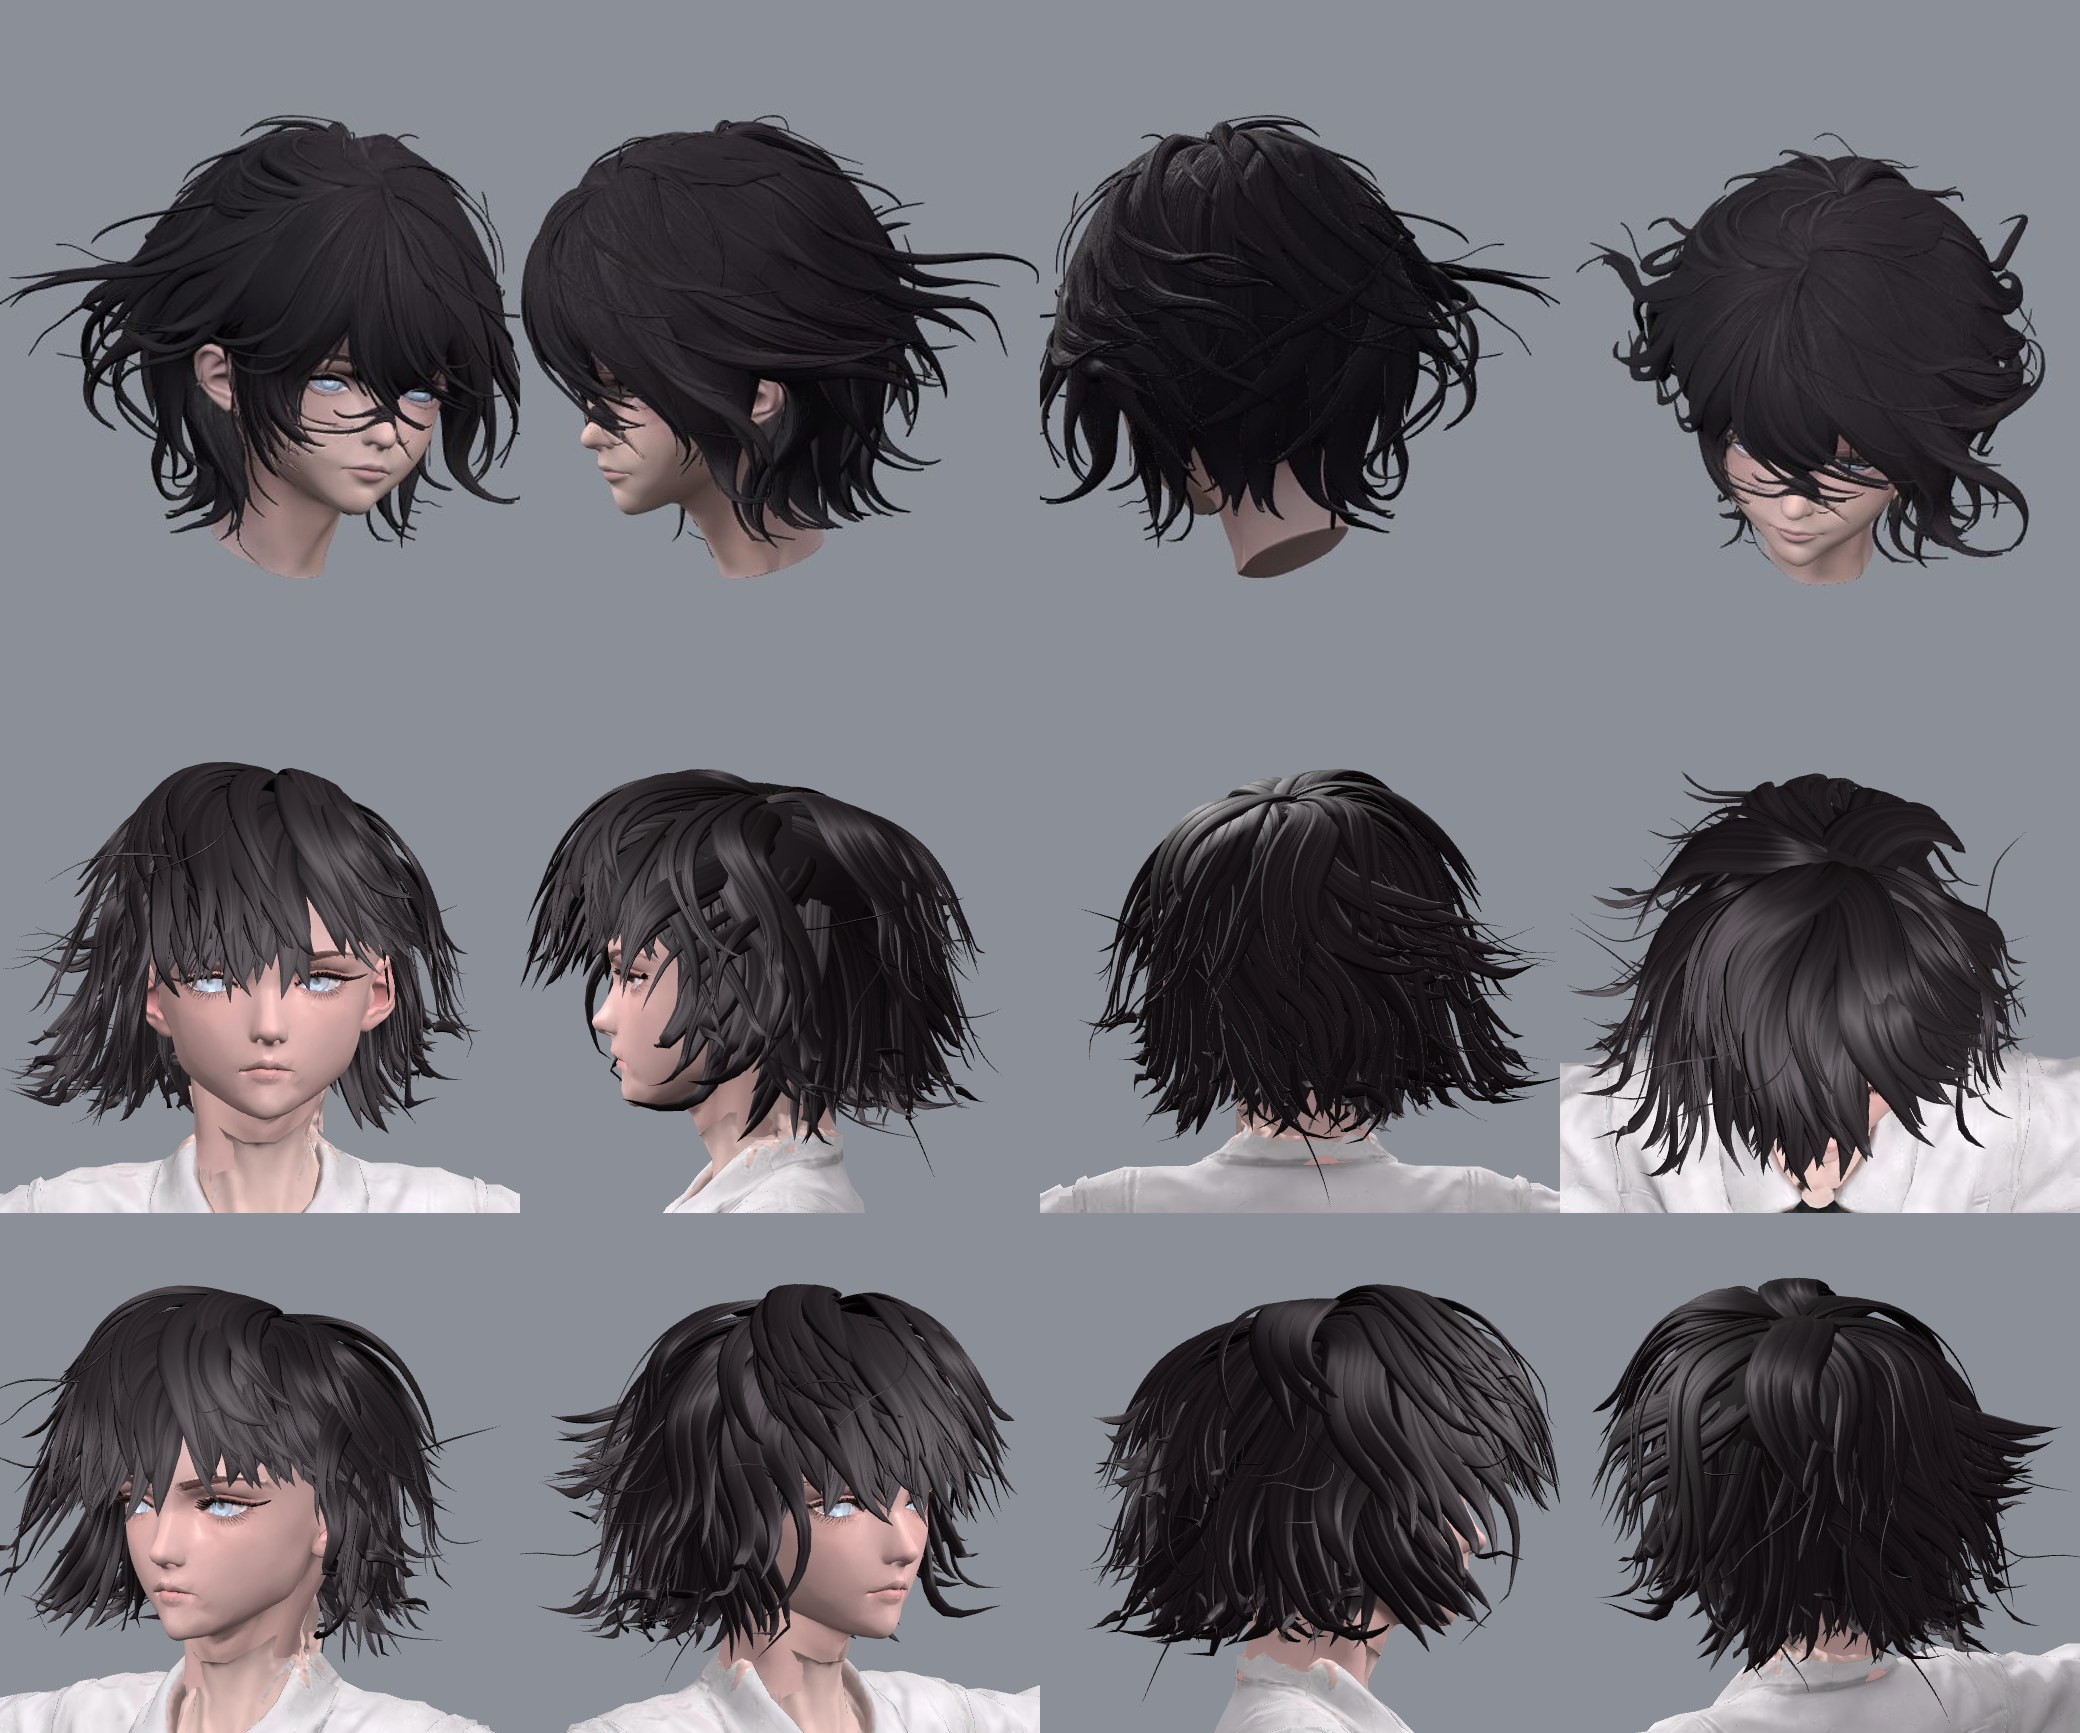
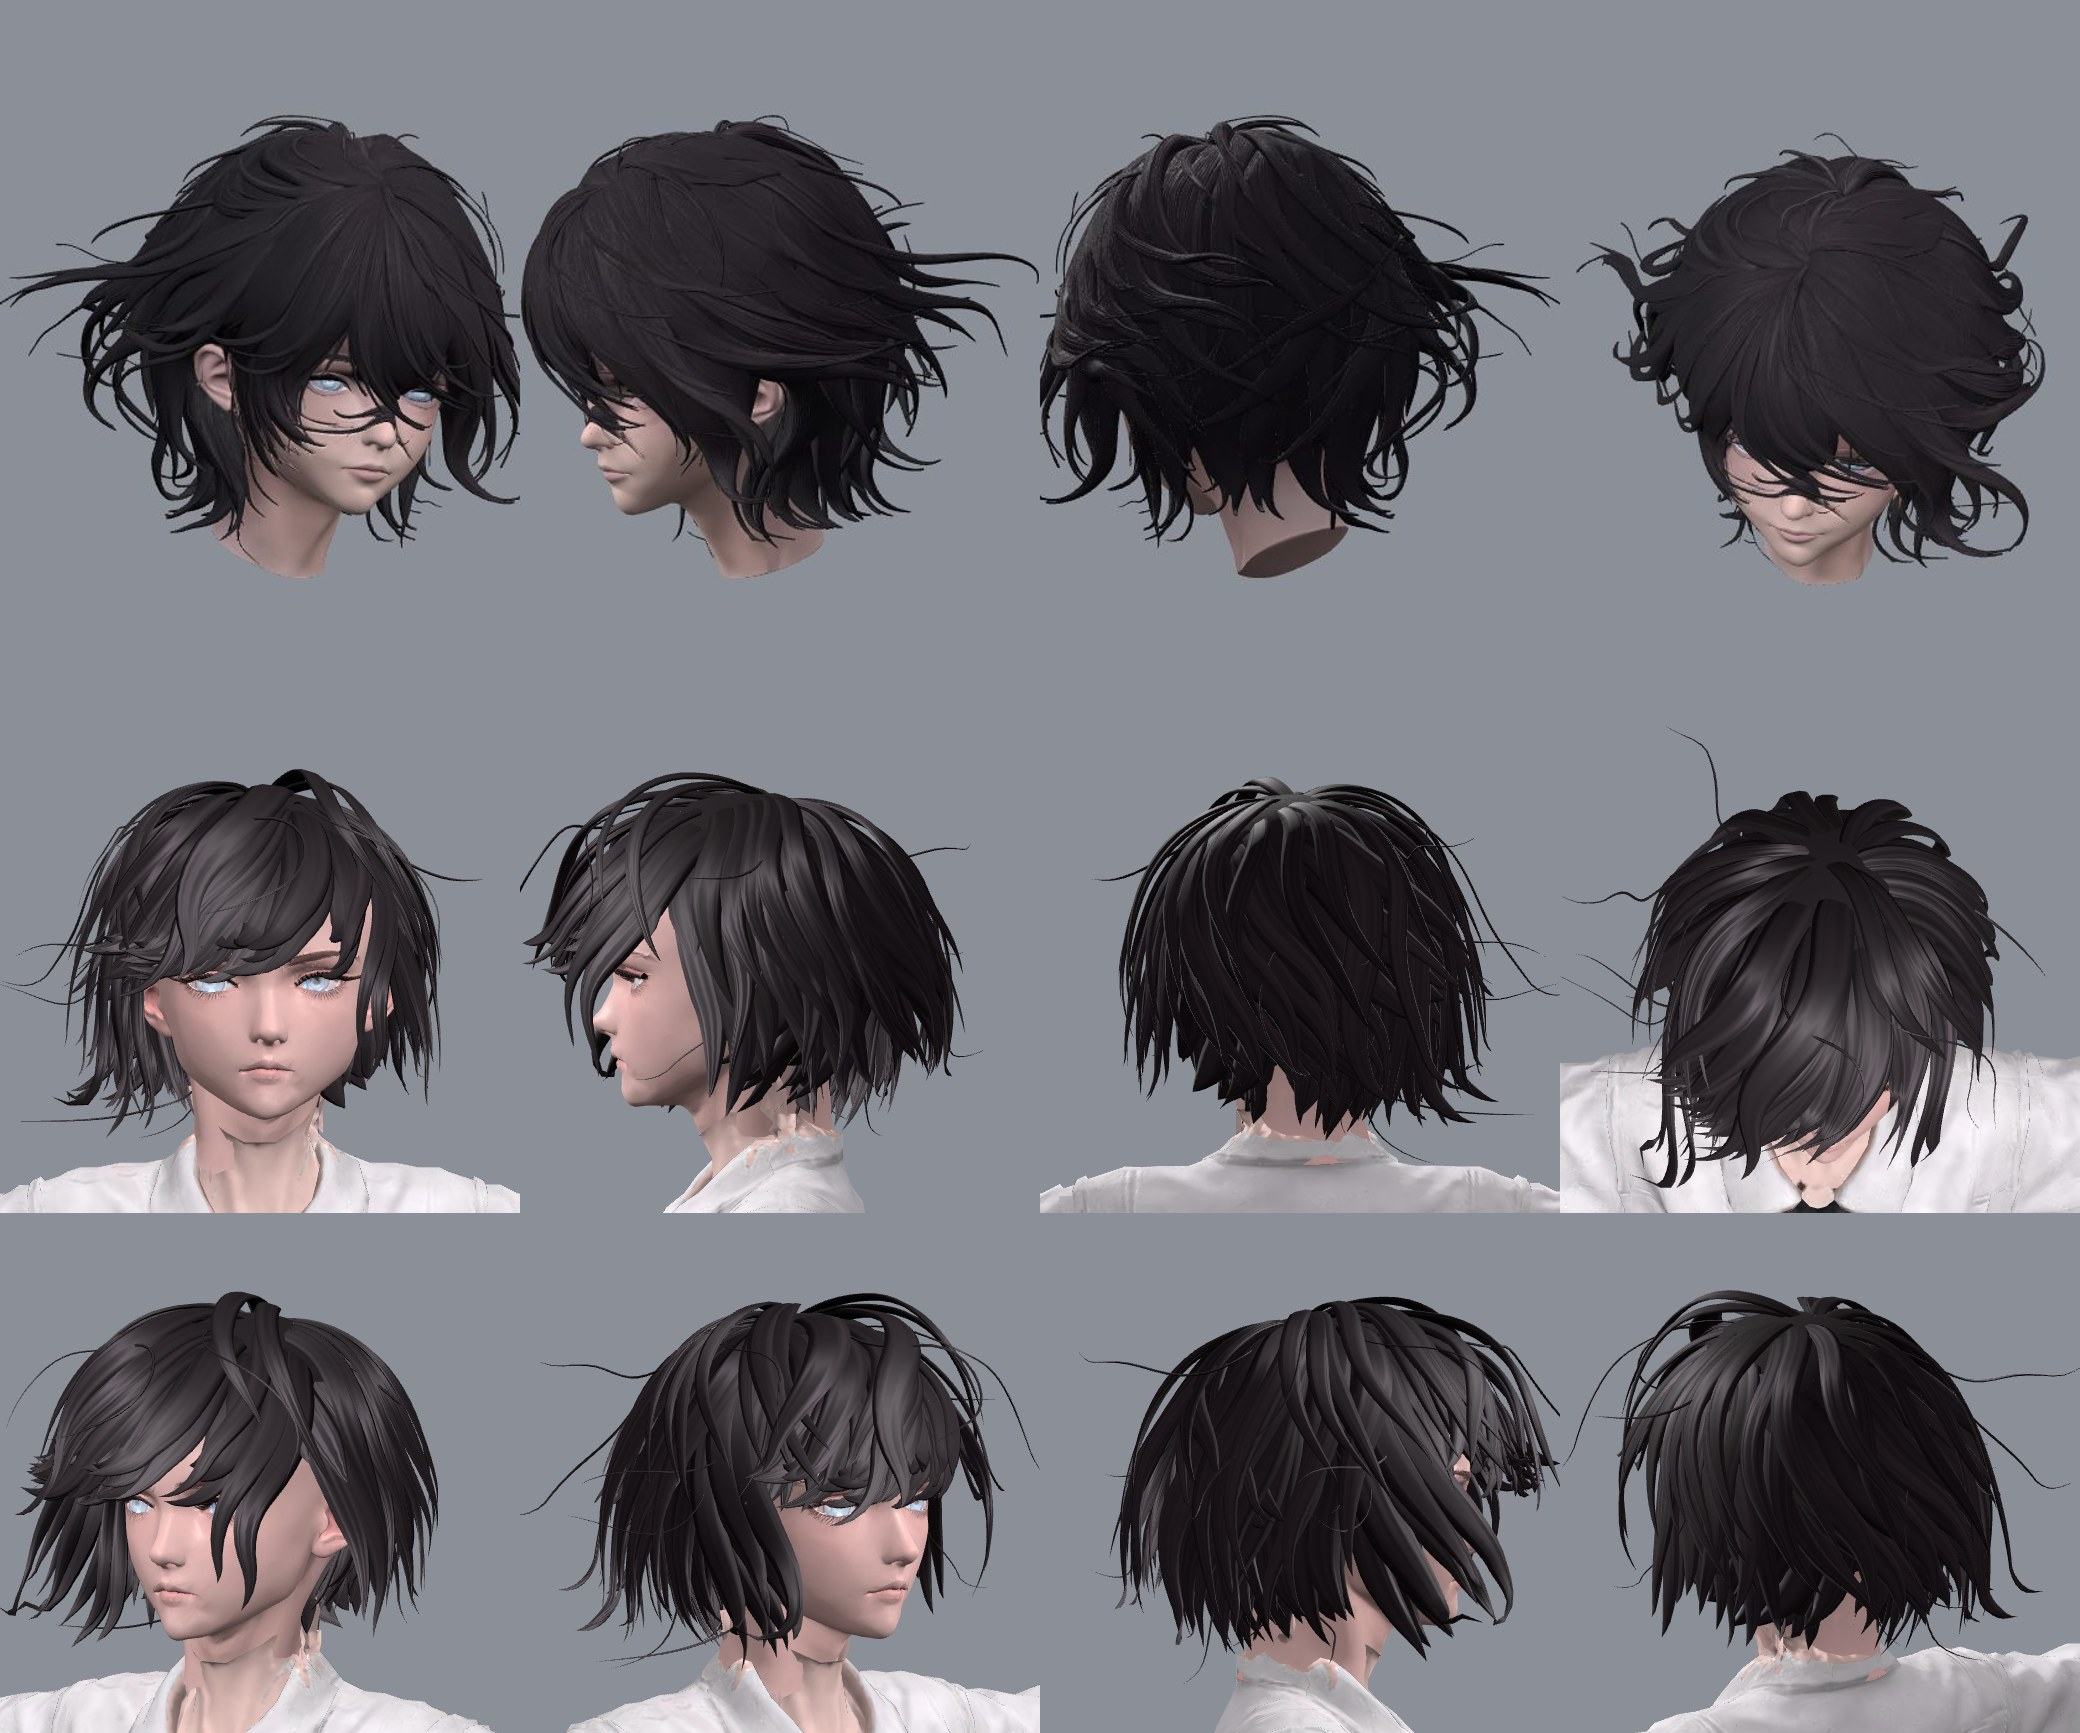
Hair: rounder silhouette tucked in below the ears, fewer and wider locks, varied lengths
Claude-Session: https://claude.ai/code/session_019DMgo5PsWcgmUS1Nw3L7Hp

diff --git a/character/hair.js b/character/hair.js
@@ -31,14 +31,14 @@ function noise3(x, y, z) {
 
 export const HAIR_DEFAULTS = {
   seed: 7,
-  whorl: 22,            // extra locks around the crown so the whorl closes
-  fringe: 14,           // extra locks over the forehead, where the face would otherwise show a bare hairline
-  sectionSize: 0.62,    // spacing of section centres: smaller = more, smaller sections
-  clumps: 150,          // locks
-  clumpSpacing: 0.235,   // minimum distance between lock roots (eye-gap units)
+  whorl: 16,            // extra locks around the crown so the whorl closes
+  fringe: 18,           // extra locks over the forehead, where the face would otherwise show a bare hairline
+  sectionSize: 0.95,    // spacing of section centres: smaller = more, smaller sections
+  clumps: 125,          // locks
+  clumpSpacing: 0.26,   // minimum distance between lock roots (eye-gap units)
   strays: 0,            // thin stray hairs travelling with each lock
-  flyaways: 16,         // long thin hairs carried off by the wind
-  surface: 12,          // thin hairs lying across the top of the locks
+  flyaways: 10,         // long thin hairs carried off by the wind
+  surface: 8,          // thin hairs lying across the top of the locks
   skull: { c: [0, 0.55, -1.17], r: [1.3, 1.62, 1.5] },   // measured on assets/bald.glb
   crown: [0.12, 2.1, -1.45],
   wind: [-0.85, 0.1, -0.5],     // blows toward the character's right and back
@@ -46,7 +46,8 @@ export const HAIR_DEFAULTS = {
   gravity: 0.14,
   part: 0.3,            // x of the fringe parting: locks sweep away from it to either side
   volume: 1.1,          // how far the outer layer stands off the skull (1 = on the skull)
-  bell: 0.16,           // how slowly the silhouette narrows below the skull; smaller = fuller
+  tuck: 0.05,           // how strongly locks below the ears curve back in toward the neck
+  bell: 0.3,           // how slowly the silhouette narrows below the skull; smaller = fuller
   cutLong: 3.1,         // lock length at the crown (eye-gap units)
   cutShort: 0.6,        // lock length at the nape and temples
   wave: 0.145,          // strength of the long S-bends
@@ -96,13 +97,13 @@ export function buildHair(THREE, headMesh, frame, options = {}) {
 
   // ---- sections: the style parameters that all locks growing from one patch of scalp share
   const makeSection = centre => {
-    const wild = centre ? centre.y < 1.75 && R() < 0.05 + 0.4 * lee(centre) : false;                   // whole sections on the lee side get caught by the wind
+    const wild = centre ? centre.y < 1.4 && R() < 0.03 + 0.25 * lee(centre) : false;                   // whole sections on the lee side get caught by the wind
     return {
       centre, len: R(), long: R() < 0.16, swirl: (R() - 0.5) * 1.5 + 0.2, sweep: R(),
-      flick: (R() < 0.8 ? 1 : 0.3) * (0.13 + R() * 0.12), hookSteps: 4 + Math.floor(R() * 4),
+      flick: 0.13 + R() * 0.12, out: R() < 0.3, hookSteps: 4 + Math.floor(R() * 4),
       curly: R() < 0.45 ? (R() < 0.5 ? 1 : -1) * (0.05 + R() * 0.1) : 0,
       wPhase: R() * 6.28, wFreq: 0.2 + R() * 0.1, wAmp: 0.6 + R() * 0.8, ph1: R() * 6.28, ph2: R() * 6.28, fr: 0.55 + R() * 0.9,
-      wild, wind: wild ? 2.2 + R() * 1.8 : 0.25 + R() * 0.7, lift: R() * 0.02 + (wild ? 0.03 : 0), gravity: wild ? 0.75 : 1, shade: 0.8 + R() * 0.45,
+      wild, wind: wild ? 1.5 + R() * 1.2 : 0.25 + R() * 0.7, lift: R() * 0.02 + (wild ? 0.03 : 0), gravity: wild ? 0.75 : 1, shade: 0.8 + R() * 0.45,
     };
   };
   const sections = [];
@@ -121,24 +122,24 @@ export function buildHair(THREE, headMesh, frame, options = {}) {
     const front = Math.max(0, 1 - Math.abs(az) / 1.0), back = Math.max(0, (Math.abs(az) - 1.9) / 1.2);
     // where the strand stops: fringe around the eyes (a few reach the nose); elsewhere tiered by root height
     const len = S.len * 0.8 + R() * 0.2;                                           // mostly the section's length, a little of its own
-    let endY = front > 0 ? 0.8 - len * 0.45 - (S.long ? 0.8 : 0) : -1.15 - len * 0.3 - back * 0.1;
+    let endY = front > 0 ? 0.8 - len * 0.45 - (S.long ? 0.8 : 0) : -0.25 - len * 1.25 - back * 0.1;
     if (k.endY !== undefined) endY = k.endY;
     // length of the cut: long on top, short at the temples and the nape
     const high = Math.min(1, Math.max(0, (root.y + 0.6) / 2.7));
-    const cut = (o.cutShort + (o.cutLong - o.cutShort) * Math.pow(high, 1.25)) * (0.7 + len * 0.6);
+    const cut = (o.cutShort + (o.cutLong - o.cutShort) * Math.pow(high, 1.25)) * (0.5 + 0.3 * high + len * (0.95 - 0.5 * high));
     const flow = V().subVectors(root, CROWN); flow.addScaledVector(n, -flow.dot(n)).normalize();
     flow.applyAxisAngle(n, (k.swirl ?? S.swirl));
     // pull toward the section's own direction, so its locks run parallel instead of fanning out (matters most at the crown)
     // (not right at the whorl, where that would send locks uphill across the crown)
-    if (S.dir) { const far = Math.min(1, Math.max(0, (root.distanceTo(CROWN) - 0.45) / 0.6)); flow.lerp(S.dir, 0.65 * far); flow.addScaledVector(n, -flow.dot(n)).normalize(); }   // not a perfect star
+    if (S.dir) { const far = Math.min(1, Math.max(0, (root.distanceTo(CROWN) - 0.45) / 0.6)); flow.lerp(S.dir, 0.5 * far); flow.addScaledVector(n, -flow.dot(n)).normalize(); }   // not a perfect star
     // fringe: sweep diagonally away from the parting instead of falling straight down
     if (front > 0.15) { flow.x += Math.sign(S.centre ? S.centre.x - o.part : root.x - o.part) * (0.12 + S.sweep * 0.45) * front; flow.addScaledVector(n, -flow.dot(n)).normalize(); }
     const d = flow.clone().addScaledVector(n, 0.04 + k.lift * 1.5).normalize();
     const step = 0.13, pts = [root.clone()], p = root.clone();
     const l0 = shell(root);                                                        // the real scalp is not exactly the ellipsoid
     const l1 = o.volume - 0.05 + k.lift * 2.5 + 0.07 * Math.min(1, Math.max(0, (root.y - 0.4) / 1.7)) + front * 0.05;   // higher roots lie on top
-    const flick = S.flick * (front > 0 ? 0.3 : 1) * (k.flick ?? 1) * Math.min(1, 0.25 + high * 1.6), hookSteps = S.hookSteps;
-    const curly = S.curly;                                                         // the whole section twists the same way as it hooks
+    const flick = S.flick * (front > 0 ? 0.3 : 1) * (k.flick ?? 1) * Math.min(1, 0.25 + high * 1.6), hookSteps = S.wild ? 3 : S.hookSteps;
+    const curly = S.wild ? 0 : S.curly, outFlick = S.out || S.wild || front > 0, tuck = S.wild ? 0 : o.tuck;                                                         // the whole section twists the same way as it hooks
     const windK = o.windStrength * k.wind * (0.45 + 1.3 * lee(root)), g = o.gravity * (k.gravity ?? 1);
     // long S-bend, shared by the section
     const wPhase = S.wPhase + (R() - 0.5) * 0.25, wFreq = S.wFreq, wAmp = o.wave * (k.wave ?? 1) * S.wAmp;
@@ -149,9 +150,10 @@ export function buildHair(THREE, headMesh, frame, options = {}) {
       const t = s / 20, lift = l0 + (l1 - l0) * Math.min(1, s / 7);
       side.crossVectors(d, outward(p)).normalize();
       hout.set(p.x / RAD.x, 0, (p.z - C.z) / RAD.z).normalize();                  // straight out from the head's axis
-      if (hook) { d.addScaledVector(hout, flick); d.y += flick * 0.6; d.addScaledVector(side, curly); }   // tip: curl outward and up
+      if (hook) { if (outFlick) { d.addScaledVector(hout, flick); d.y += flick * 0.6; } else d.addScaledVector(hout, -flick * 0.45); d.addScaledVector(side, curly); }   // tip: curl outward and up
       else {
         d.y -= g;
+        if (front === 0 && p.y < 0.5) d.addScaledVector(hout, -tuck * Math.min(1, (0.5 - p.y) / 0.6));   // round silhouette: tuck in below the ears
         d.addScaledVector(WIND, windK * t * t);
         d.addScaledVector(side, Math.sin(wPhase + s * wFreq) * wAmp * Math.min(1, s / 6));
         d.addScaledVector(side, Math.sin(s * 0.55 * fr + ph1) * k.curl);
@@ -164,7 +166,7 @@ export function buildHair(THREE, headMesh, frame, options = {}) {
       if (l < lift) { e.multiplyScalar(lift / l).multiply(RAD); p.copy(C).add(e); }
       // ...and below it keep a bell-shaped silhouette instead of collapsing onto the neck
       if (p.y < C.y && front === 0) {
-        const hr = Math.hypot(p.x / RAD.x, (p.z - C.z) / RAD.z), min = lift * Math.max(0.55, 1 - o.bell * (C.y - p.y));
+        const hr = Math.hypot(p.x / RAD.x, (p.z - C.z) / RAD.z), min = lift * Math.max(0.5, 1 - o.bell * Math.pow(C.y - p.y, 1.5));
         if (hr < min) { p.x *= min / hr; p.z = C.z + (p.z - C.z) * min / hr; }
       }
       d.subVectors(p, prev).normalize();
@@ -214,14 +216,15 @@ export function buildHair(THREE, headMesh, frame, options = {}) {
   }
   for (let tries = 0, made = 0; made < o.whorl && tries < 40000; tries++) {       // close the whorl at the crown
     const r = pickRoot();
-    if (r.distanceTo(CROWN) < 0.5) { guides.push({ root: r }); made++; }
+    if (r.distanceTo(CROWN) < 0.5) { guides.push({ root: r, whorl: true }); made++; }
   }
   for (const gd of guides) {
     const sec = sectionOf(gd.root);
     const k = { sec, lift: sec.lift + R() * 0.008, wind: sec.wind, curl: 0.004 + R() * 0.008, gravity: sec.gravity };
     const path = grow(gd.root, k), n = path.length, shade = sec.shade * (0.92 + R() * 0.16);
-    const big = gd.fringe ? R() * 0.6 : R(), width = big < 0.25 ? 0.2 + R() * 0.07 : big < 0.75 ? 0.14 + R() * 0.05 : 0.085 + R() * 0.03;   // a few heavy locks, many medium, some thin
-    const subs = width > 0.19 ? 3 : width > 0.12 ? 2 : 1, l0 = shell(gd.root);
+    let width; const big = gd.fringe ? R() * 0.6 : R(); width = big < 0.3 ? 0.3 + R() * 0.08 : big < 0.8 ? 0.21 + R() * 0.06 : 0.12 + R() * 0.04;   // a few heavy locks, many medium, some thin
+    const near = gd.root.distanceTo(CROWN) < 0.6; if (near) width = Math.min(width, 0.15);   // thin at the whorl, or they pile up into a knot
+    const subs = width > 0.29 ? 2 : 1, l0 = shell(gd.root);
     const strays = Math.floor(o.strays + R());
     for (let m = 0; m < subs + strays; m++) {
       const stray = m >= subs, side = stray ? (R() - 0.5) * 3 : (m - (subs - 1) / 2) * 1.2;   // position across the lock, in widths
@@ -232,12 +235,12 @@ export function buildHair(THREE, headMesh, frame, options = {}) {
         T.subVectors(path[Math.min(n - 1, i + 1)], path[Math.max(0, i - 1)]).normalize();
         B.crossVectors(T, out).normalize();
         const spread = stray ? 1 + t * 2 : 1 + Math.max(0, t - split) * 1.8;       // sub-locks lie side by side, then part at the tip
-        const pnt = path[i].clone().addScaledVector(B, side * width * 0.62 * spread + Math.sin(i * 0.45 + ph) * amp * t * 3);
+        const pnt = path[i].clone().addScaledVector(B, side * width * 0.5 * spread + Math.sin(i * 0.45 + ph) * amp * t * 3);
         pnt.addScaledVector(out, stray ? 0.03 + Math.cos(i * 0.5 + ph) * amp * t * 2 : -Math.abs(side) * 0.01);
         pts.push(clampOut(pnt, l0 + (o.volume - 0.07 - l0) * Math.min(1, i / 7)));
       }
       if (stray) tube(pts, 0.009 + R() * 0.008, 1, 3, shade * (0.9 + R() * 0.4), R(), 0.7);
-      else tube(pts, width * 0.62 * (0.9 + R() * 0.25), 0.22, 6, shade * (0.9 + R() * 0.2), R(), split - 0.05);
+      else tube(pts, width * (subs > 1 ? 0.5 : 0.8) * (0.9 + R() * 0.25), 0.2, 6, shade * (0.9 + R() * 0.2), R(), split - 0.05);
     }
   }
   // ---- long thin hairs carried off by the wind, mostly from the lee side

diff --git a/README.md b/README.md
@@ -82,6 +82,8 @@
   - 发束是宽而扁的发片，到发梢分成一到三个尖；
   - 按真实发型裁剪：头顶长，鬓角和后颈短（`cutLong`/`cutShort`），长的上层盖在短的下层上；
   - 头皮分成若干"分区"（`sectionSize`），同一区的发束共用流向、S 形弯曲和发梢外翘的方式，区与区之间不同；
+  - 整体轮廓是圆的：耳朵以下的发束往脖子方向收（`tuck`、`bell`），只有约三成分区的发梢向外翘；各分区长度差得比较开，下缘参差不齐；
+  - 发束数量刻意压少、加宽（`clumps` 125、`sectionSize` 0.95），太多太细会显得杂乱；
   - 背风一侧的分区整体被风吹开；另有少量不属于任何分区的自由发丝（`flyaways`、`surface`）；
   - 材质在片元着色器里做了顺发丝方向的条纹和 Kajiya-Kay 高光；发梢摆动在顶点着色器里。
   - 预览 `docs/previews/hair-code.jpg`：最上一排是参照的模型，下面两排是代码生成的结果。
